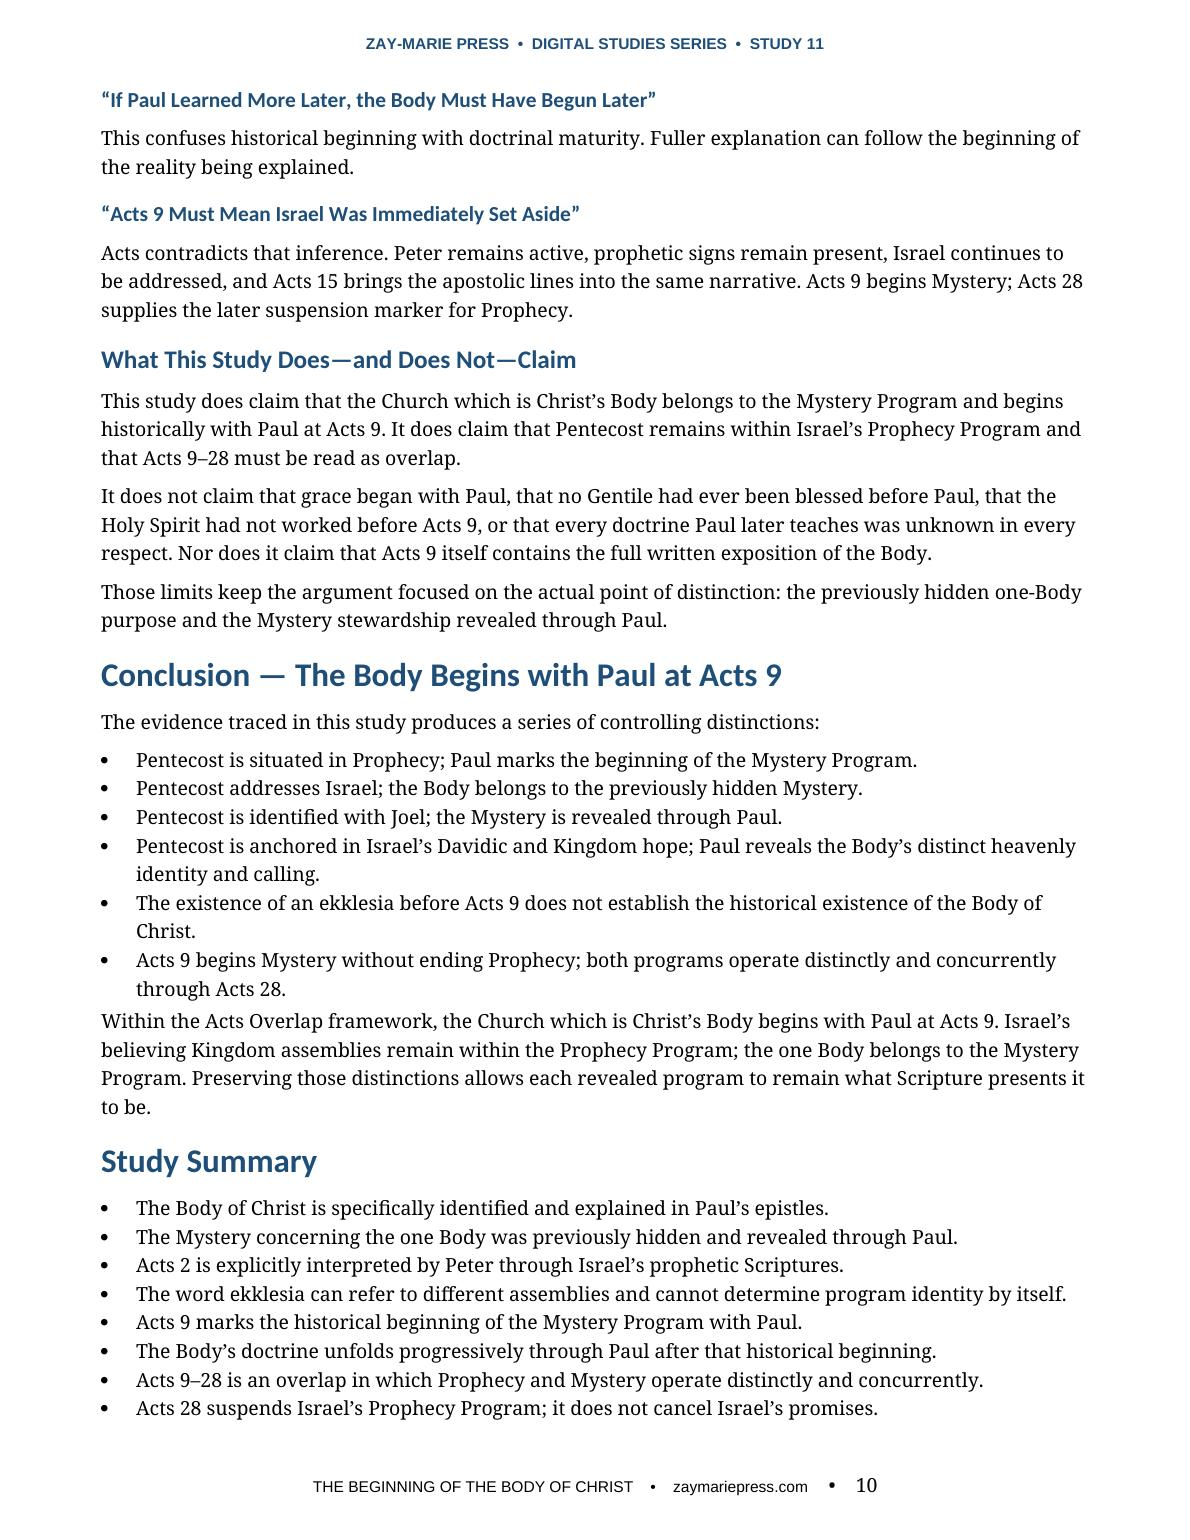
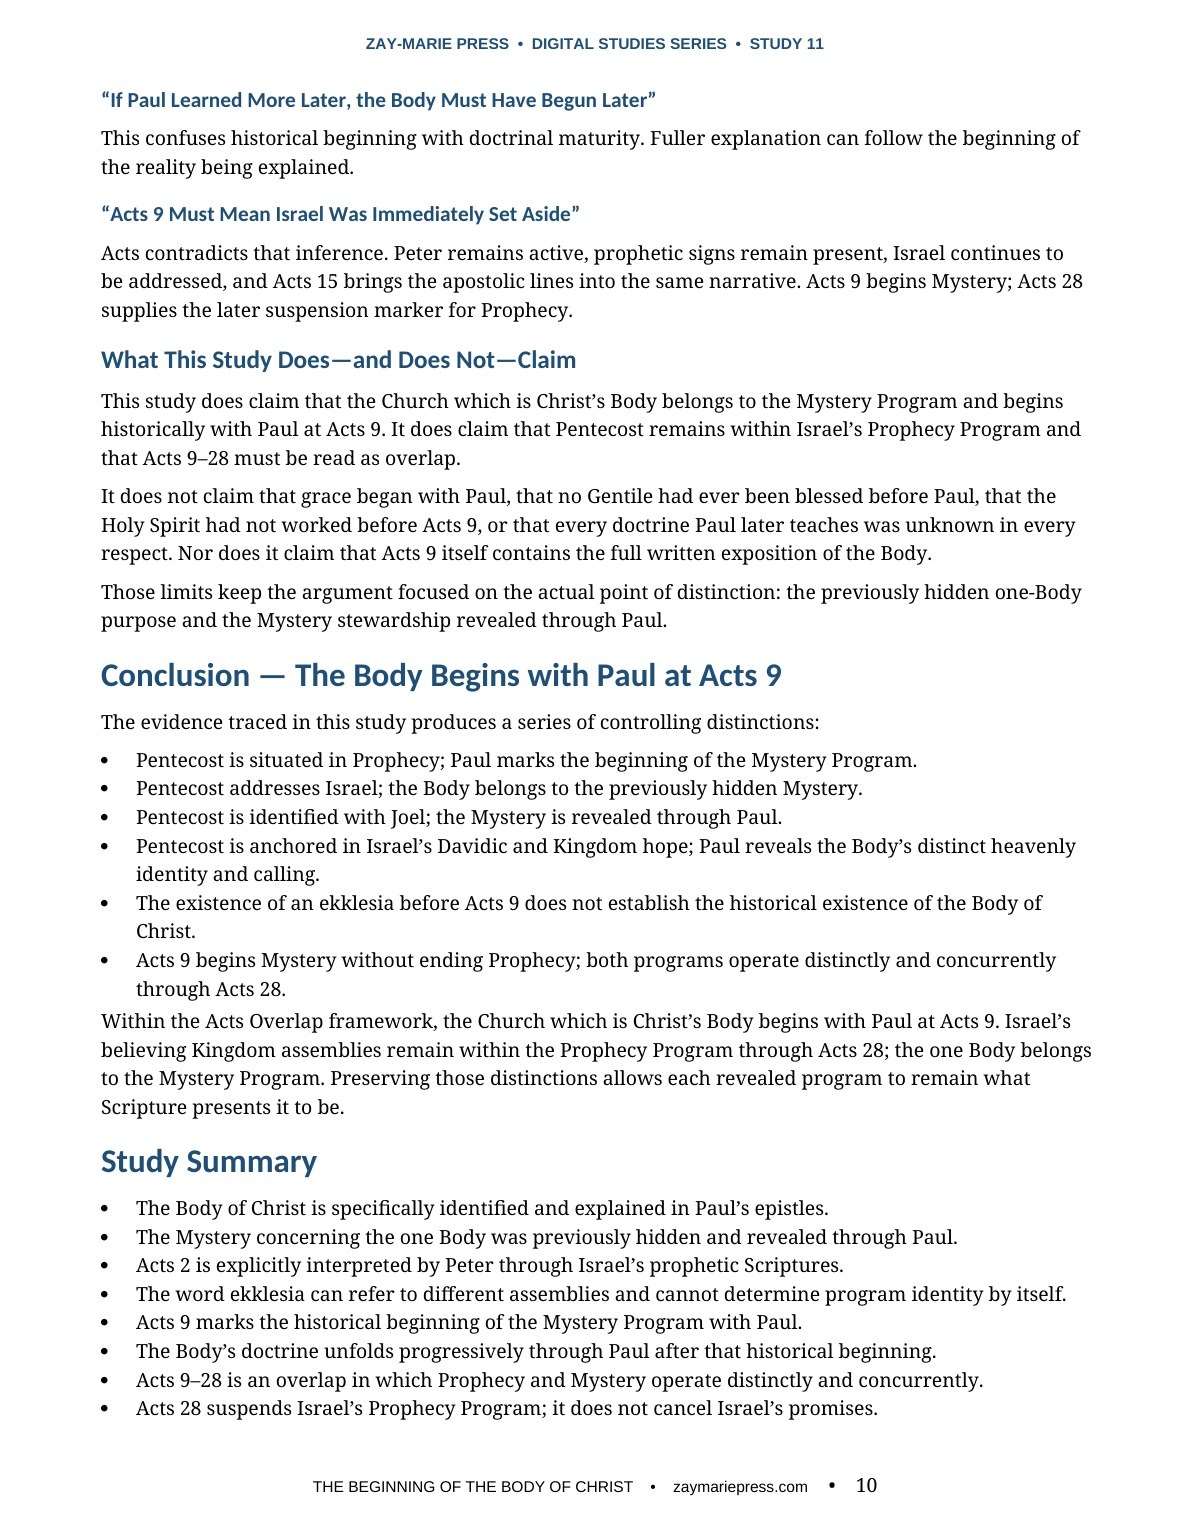
Study 11: regenerate page-10 preview from corrected PDF; Study 18: 'Nine Core Teaching Sections' to match PDF
Claude-Session: https://claude.ai/code/session_01QibtkwXuhqKkeD6pfcAZUc

Changed region(s): [[0.0933, 0.6545, 0.9017, 0.7481]]

diff --git a/study-18-peter-and-paul-distinct-apostolic-commissions.html b/study-18-peter-and-paul-distinct-apostolic-commissions.html
@@ -728,7 +728,7 @@
               </p>
             </div>
             <div class="include-item">
-              <h3>Six Core Teaching Sections</h3>
+              <h3>Nine Core Teaching Sections</h3>
               <p>
                 Follow the callings, audiences, authority, and revealed purposes
                 that distinguish the two apostolic lines.
